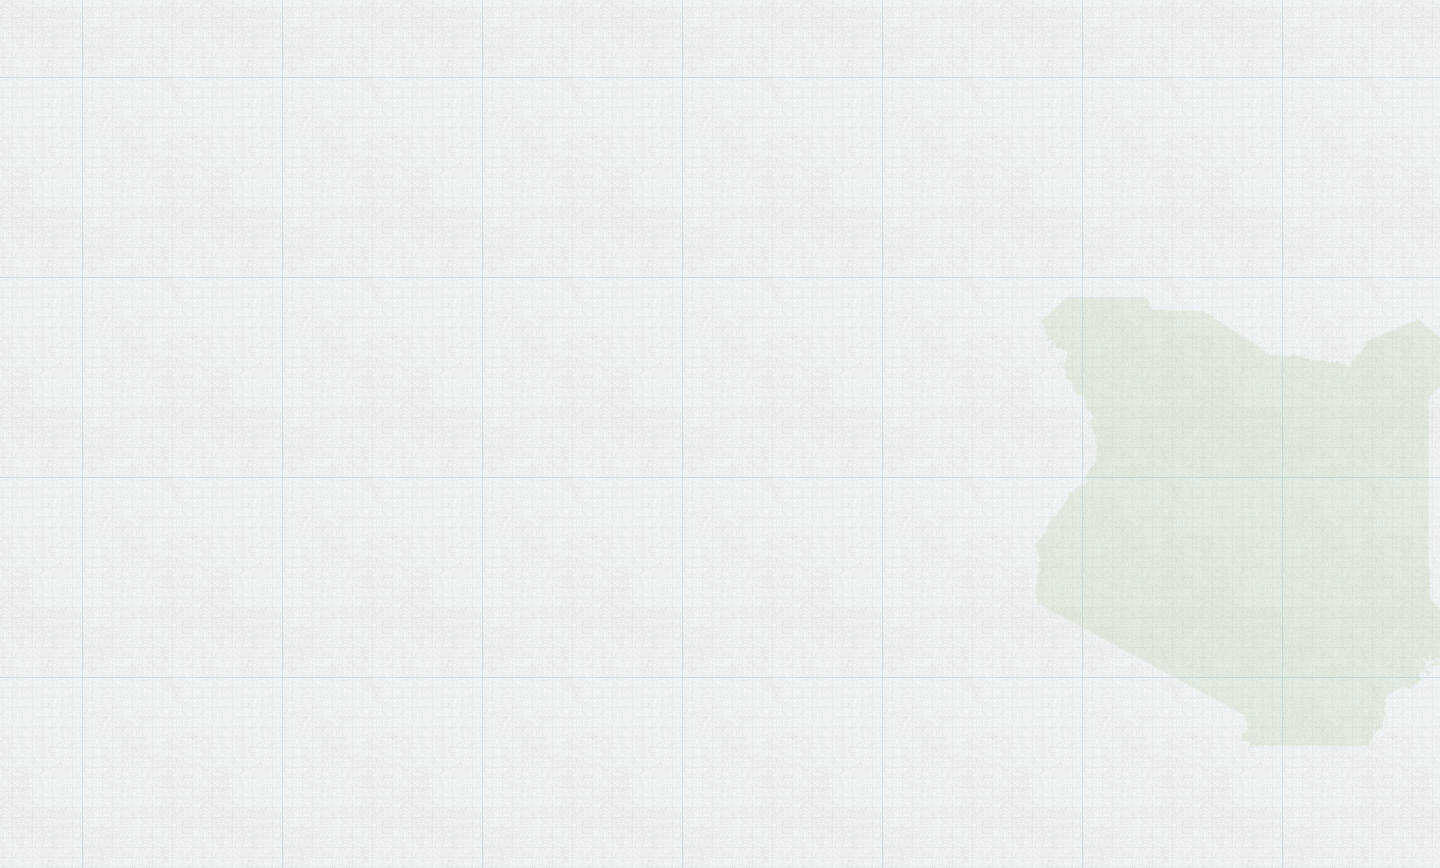
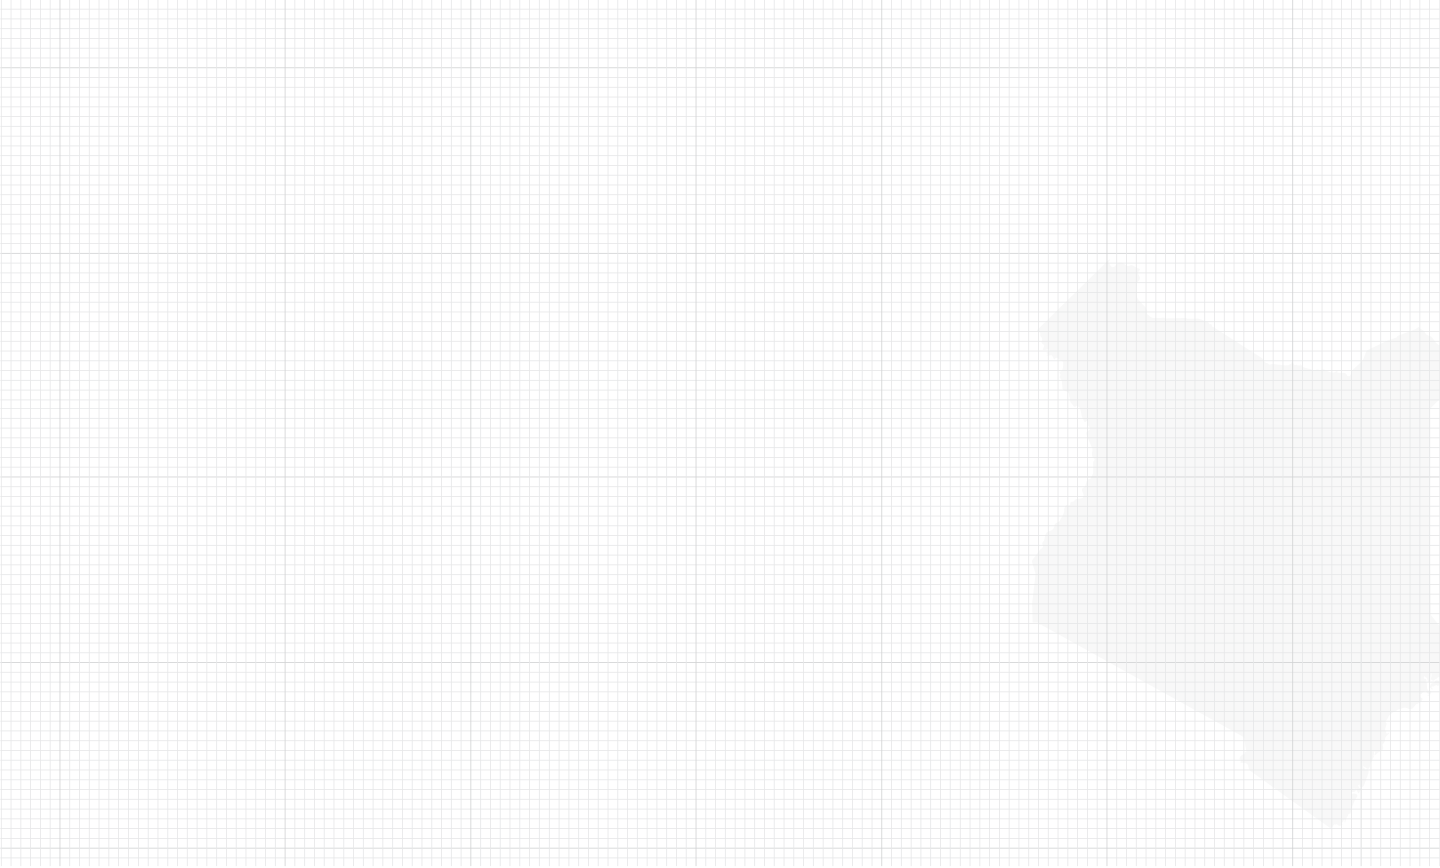
added new open data home page

diff --git a/css/home.css b/css/home.css
@@ -1,5 +1,7 @@
 .hero {
-	background: url('../img/cover.png') 0 -120px no-repeat fixed;
+	background: url('../img/opendata-cover2.png') 0 -170px no-repeat fixed;
+	/*background: url('../img/cover.png') 0 -120px no-repeat fixed;*/
+	/*background: url('../img/cover.png') 0 0 no-repeat fixed;*/
 	width: 100%;
 	min-height: 400px;
 	background-size: cover;
@@ -74,7 +76,8 @@
 
 .hero .navigation .options .dropdown select {
 	height: 34px;
-	border-radius: 0, add -webkit-appearance: none;
+	border-radius: 0;
+	/*-webkit-appearance: none;*/
 }
 
 select.btn {
